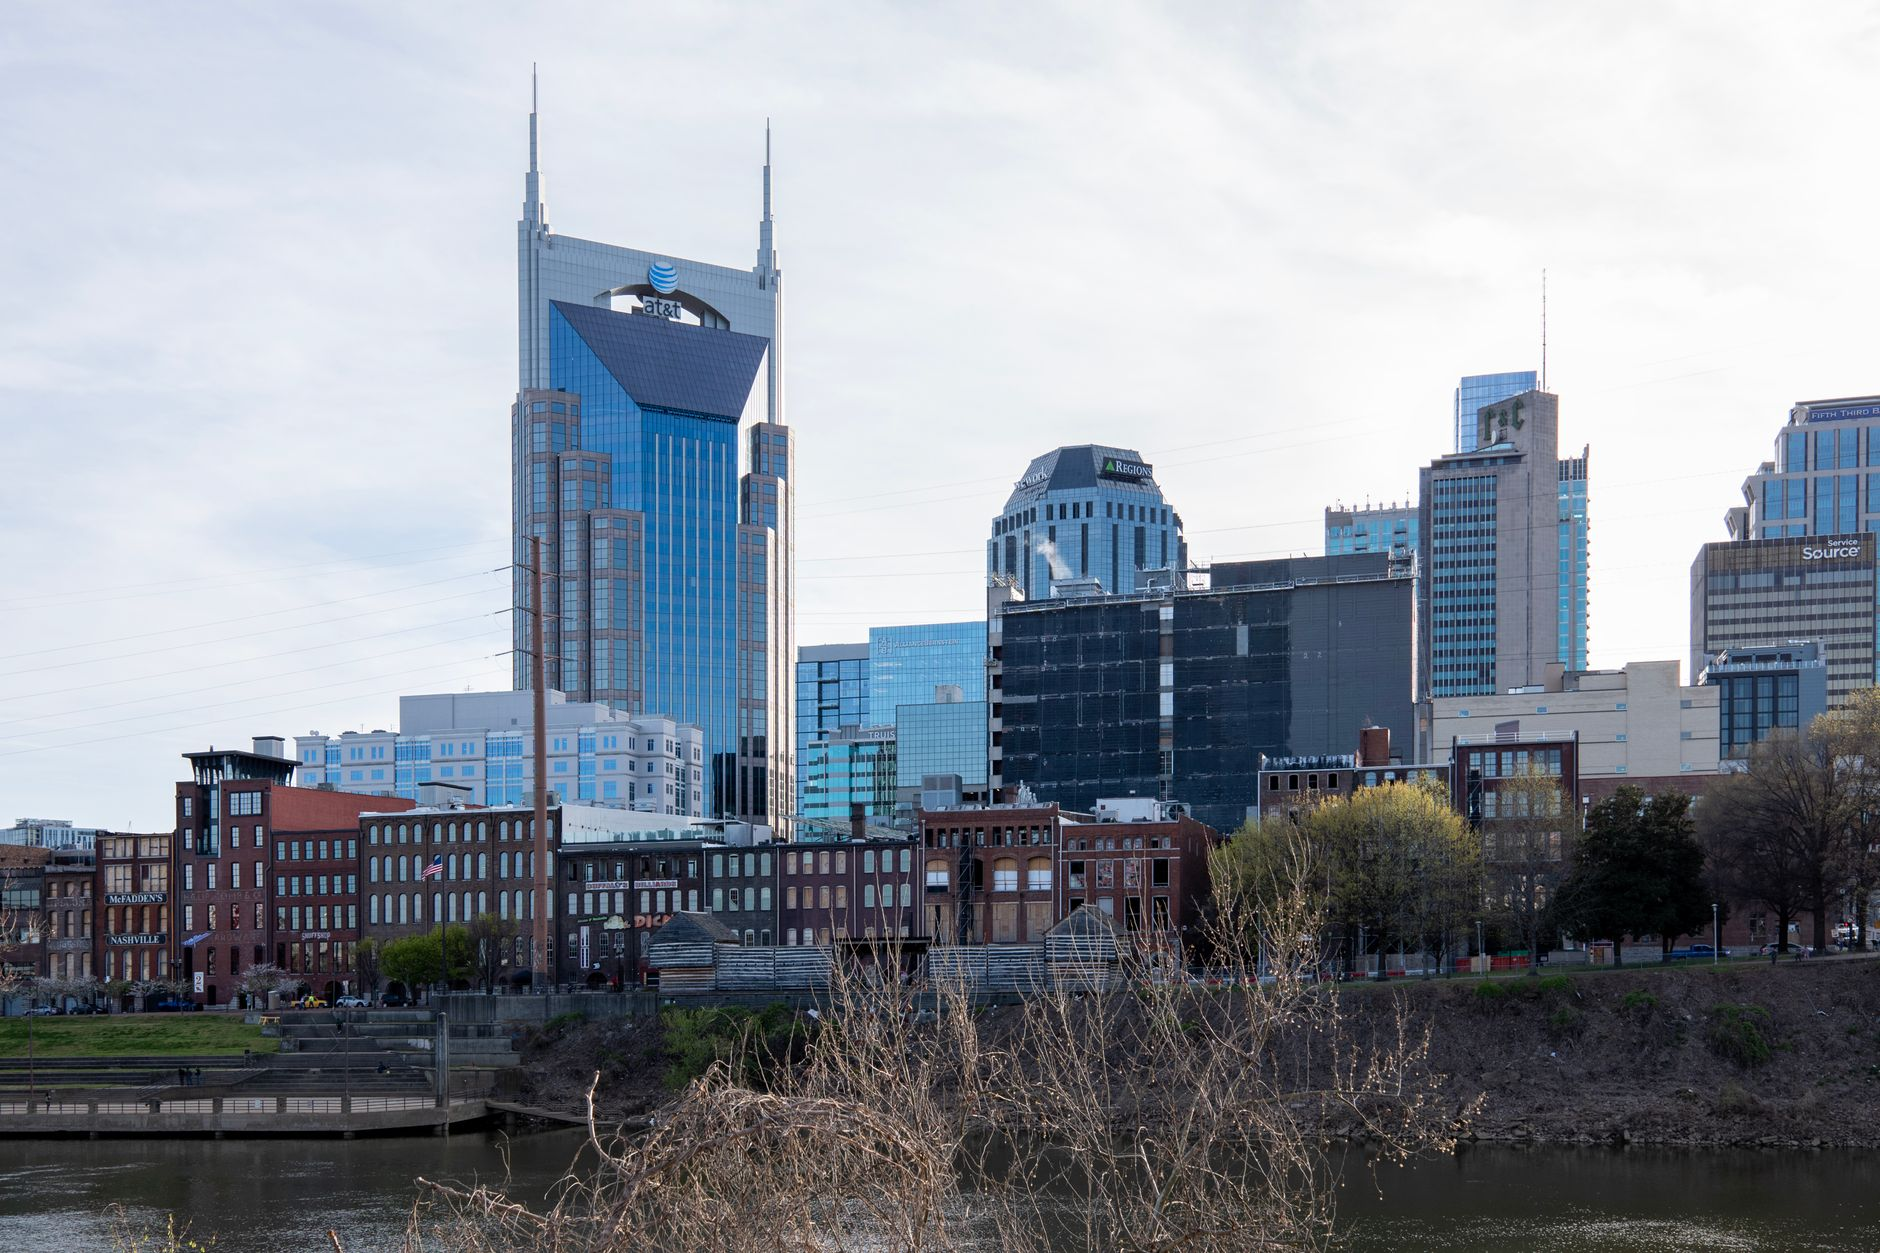
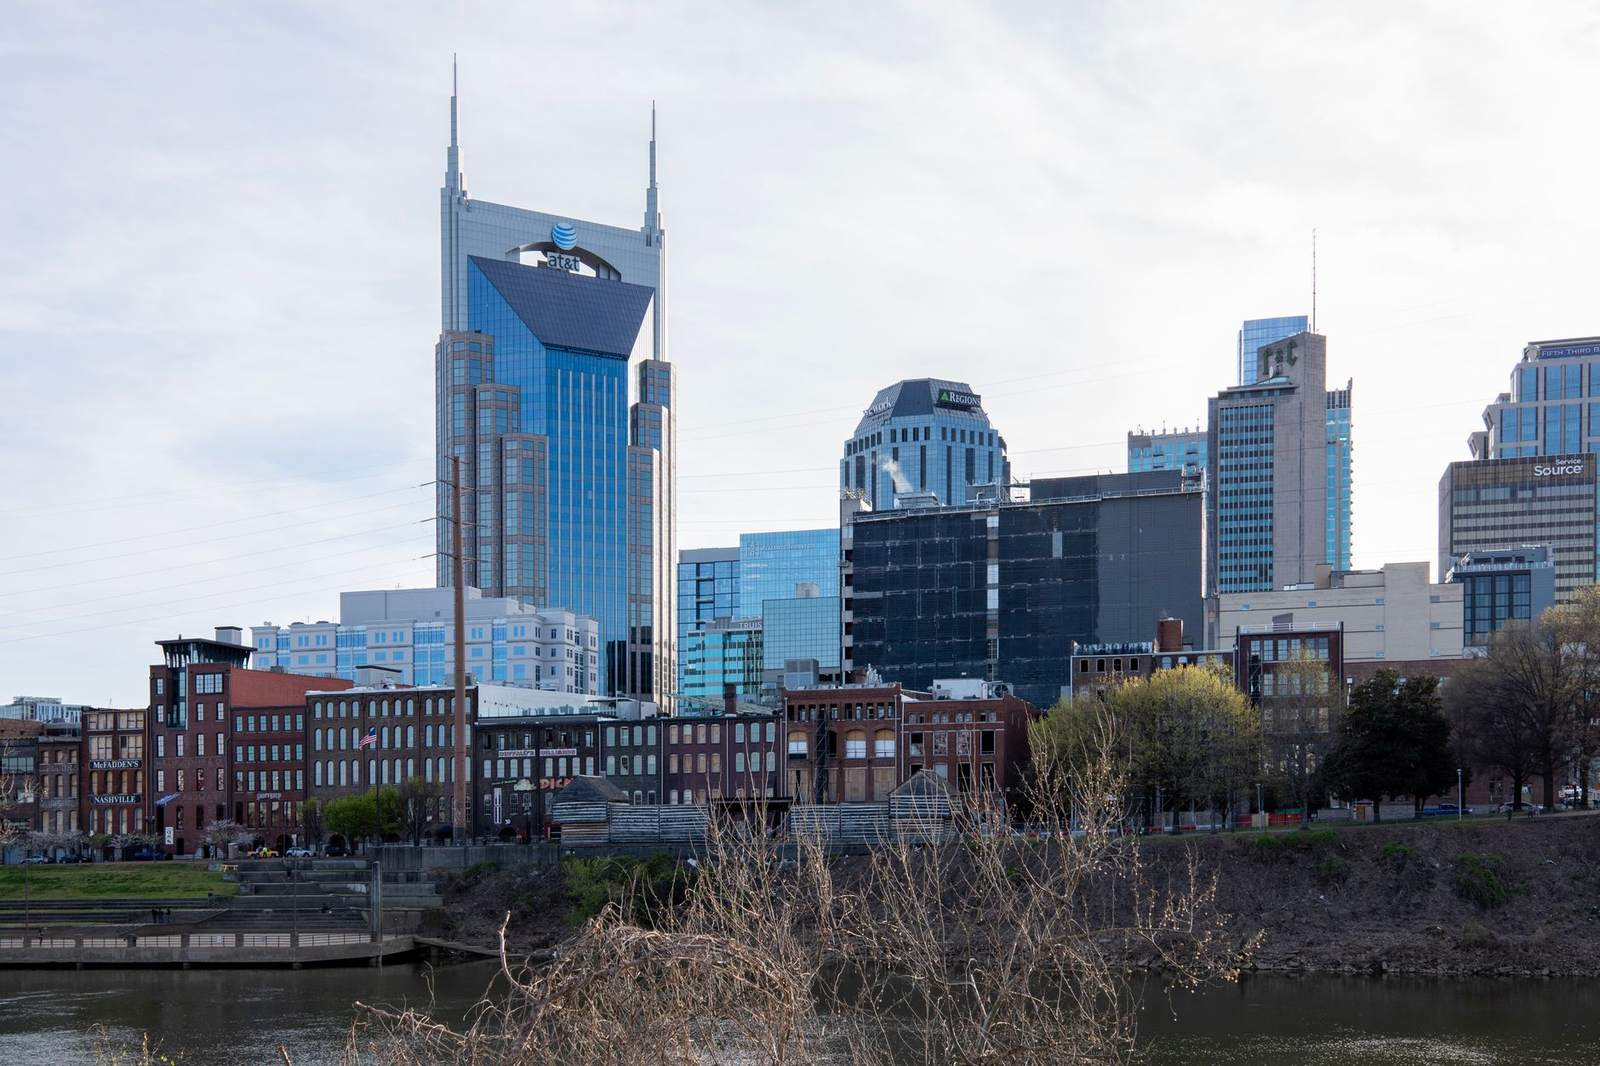
perf: smaller WebP images, year-long static caching with versioned URLs, preloads
Homepage images drop from about 560 KB to about 155 KB and the headshot
from 402 KB to 51 KB. Static files get cache-busting ?v= URLs so they
can be cached for a year; fonts and the hero image are preloaded.

Changed region(s): [[0.4688, 0.8977, 0.5, 0.9287]]

diff --git a/templates/index.html b/templates/index.html
@@ -2,6 +2,8 @@
 {% block title %}{{ firm_name }} | Nashville AI, Blockchain, Tokenization &amp; Estate Attorney{% endblock %}
 
 {% block styles %}
+<link rel="preload" as="image" type="image/webp" fetchpriority="high"
+      href="{{ url_for('static', filename='images/hero-home.webp') }}" />
 <style>
 /* Homepage sections run edge to edge; the shell's inner padding would fight them. */
 .main-content { max-width: 100%; padding: 0; }
@@ -13,7 +15,9 @@
      boxes below rise up over its bottom edge (see .ed-hero--layered) ──────── -->
 <section class="ed-hero ed-hero--home ed-hero--layered">
   <div class="ed-hero-photo photo-treated" aria-hidden="true"
-       style="background-image:url('/static/images/hero-home.jpg')"></div>
+       style="background-image:url('{{ url_for('static', filename='images/hero-home.jpg') }}');
+              background-image:image-set(url('{{ url_for('static', filename='images/hero-home.webp') }}') type('image/webp'),
+                                         url('{{ url_for('static', filename='images/hero-home.jpg') }}') type('image/jpeg'))"></div>
   <div class="ed-hero-shade" aria-hidden="true"></div>
   <div class="ed-hero-text">
     <h1>Counsel for<br><em>what comes next.</em></h1>
@@ -41,7 +45,9 @@
 <!-- ── Divider between the practice areas and the boxes below ──────────────── -->
 <section class="ed-quote ed-quote--divider">
   <div class="ed-quote-photo photo-treated"
-       style="background-image:url('/static/images/quote-justice.jpg')"></div>
+       style="background-image:url('{{ url_for('static', filename='images/quote-justice.jpg') }}');
+              background-image:image-set(url('{{ url_for('static', filename='images/quote-justice.webp') }}') type('image/webp'),
+                                         url('{{ url_for('static', filename='images/quote-justice.jpg') }}') type('image/jpeg'))"></div>
   <div class="ed-quote-body">
     <div class="ed-quote-rule"></div>
     <blockquote>A person&rsquo;s worth cannot be measured by their wealth, and neither should

diff --git a/templates/base.html b/templates/base.html
@@ -56,6 +56,9 @@
     "knowsAbout": ["Artificial intelligence law", "Blockchain and DeFi law", "Stablecoins and digital payments", "Crypto tax", "Real estate tokenization", "Estate planning", "Digital asset planning", "Criminal defense", "Civil litigation", "Family law", "Personal injury"]
   }
   </script>
+  <!-- Fonts are needed for the first paint; fetch them alongside the CSS. -->
+  <link rel="preload" href="/static/fonts/fraunces-var.woff2" as="font" type="font/woff2" crossorigin />
+  <link rel="preload" href="/static/fonts/inter-var.woff2" as="font" type="font/woff2" crossorigin />
   <!-- tokens.css must load first: style.css consumes its custom properties -->
   <link rel="stylesheet" href="{{ url_for('static', filename='css/tokens.css') }}" />
   <link rel="stylesheet" href="{{ url_for('static', filename='css/style.css') }}" />

diff --git a/templates/meet_the_firm.html b/templates/meet_the_firm.html
@@ -176,8 +176,14 @@
 <div class="mp-profile">
 
   <aside class="mp-portrait">
-    <img src="{{ url_for('static', filename='images/' + partner_photo) }}"
-         alt="{{ partner.display }}, {{ partner.title }} of {{ firm_name }}" />
+    <picture>
+      {% if partner_photo.endswith('.jpg') %}
+      <source type="image/webp" srcset="{{ url_for('static', filename='images/' + partner_photo[:-4] + '.webp') }}" />
+      {% endif %}
+      <img src="{{ url_for('static', filename='images/' + partner_photo) }}" fetchpriority="high"
+           width="760" height="1141"
+           alt="{{ partner.display }}, {{ partner.title }} of {{ firm_name }}" />
+    </picture>
     <div class="mp-name">{{ partner.display }}</div>
     <div class="mp-title">{{ partner.title }}</div>
     <ul class="mp-facts">

diff --git a/app.py b/app.py
@@ -59,6 +59,30 @@ def _public_site_only():
         abort(404)
 
 
+# ── Static file caching ──────────────────────────────────────────────────────
+# url_for('static', ...) adds ?v=<file modified time>, so a changed file gets a
+# new URL. Versioned URLs can then be cached for a year; anything requested
+# without a version (e.g. url() references inside CSS) is cached for a day.
+
+@app.url_defaults
+def _version_static_urls(endpoint, values):
+    if endpoint == "static" and "filename" in values and "v" not in values:
+        path = os.path.join(app.static_folder, values["filename"])
+        try:
+            values["v"] = int(os.path.getmtime(path))
+        except OSError:
+            pass
+
+
+@app.after_request
+def _cache_static(resp):
+    if request.endpoint == "static" and resp.status_code in (200, 304):
+        resp.headers["Cache-Control"] = (
+            "public, max-age=31536000, immutable" if request.args.get("v")
+            else "public, max-age=86400")
+    return resp
+
+
 @app.route("/healthz")
 def healthz():
     """Uptime check for the hosting platform. Also reports which deployment

diff --git a/tests/test_deployment_modes.py b/tests/test_deployment_modes.py
@@ -57,3 +57,11 @@ def test_intake_email_omits_portal_login_when_public_only(monkeypatch):
     body = " ".join(str(v) for v in sent.values())
     assert sent, "email was not sent"
     assert "TempPass123!" not in body and "client-login" not in body
+
+
+def test_versioned_static_files_are_cached_for_a_year(client):
+    html = client.get("/").get_data(as_text=True)
+    assert "/static/images/hero-home.webp?v=" in html
+    resp = client.get("/static/css/style.css?v=1")
+    assert "immutable" in resp.headers["Cache-Control"]
+    assert "max-age=86400" in client.get("/static/css/style.css").headers["Cache-Control"]
